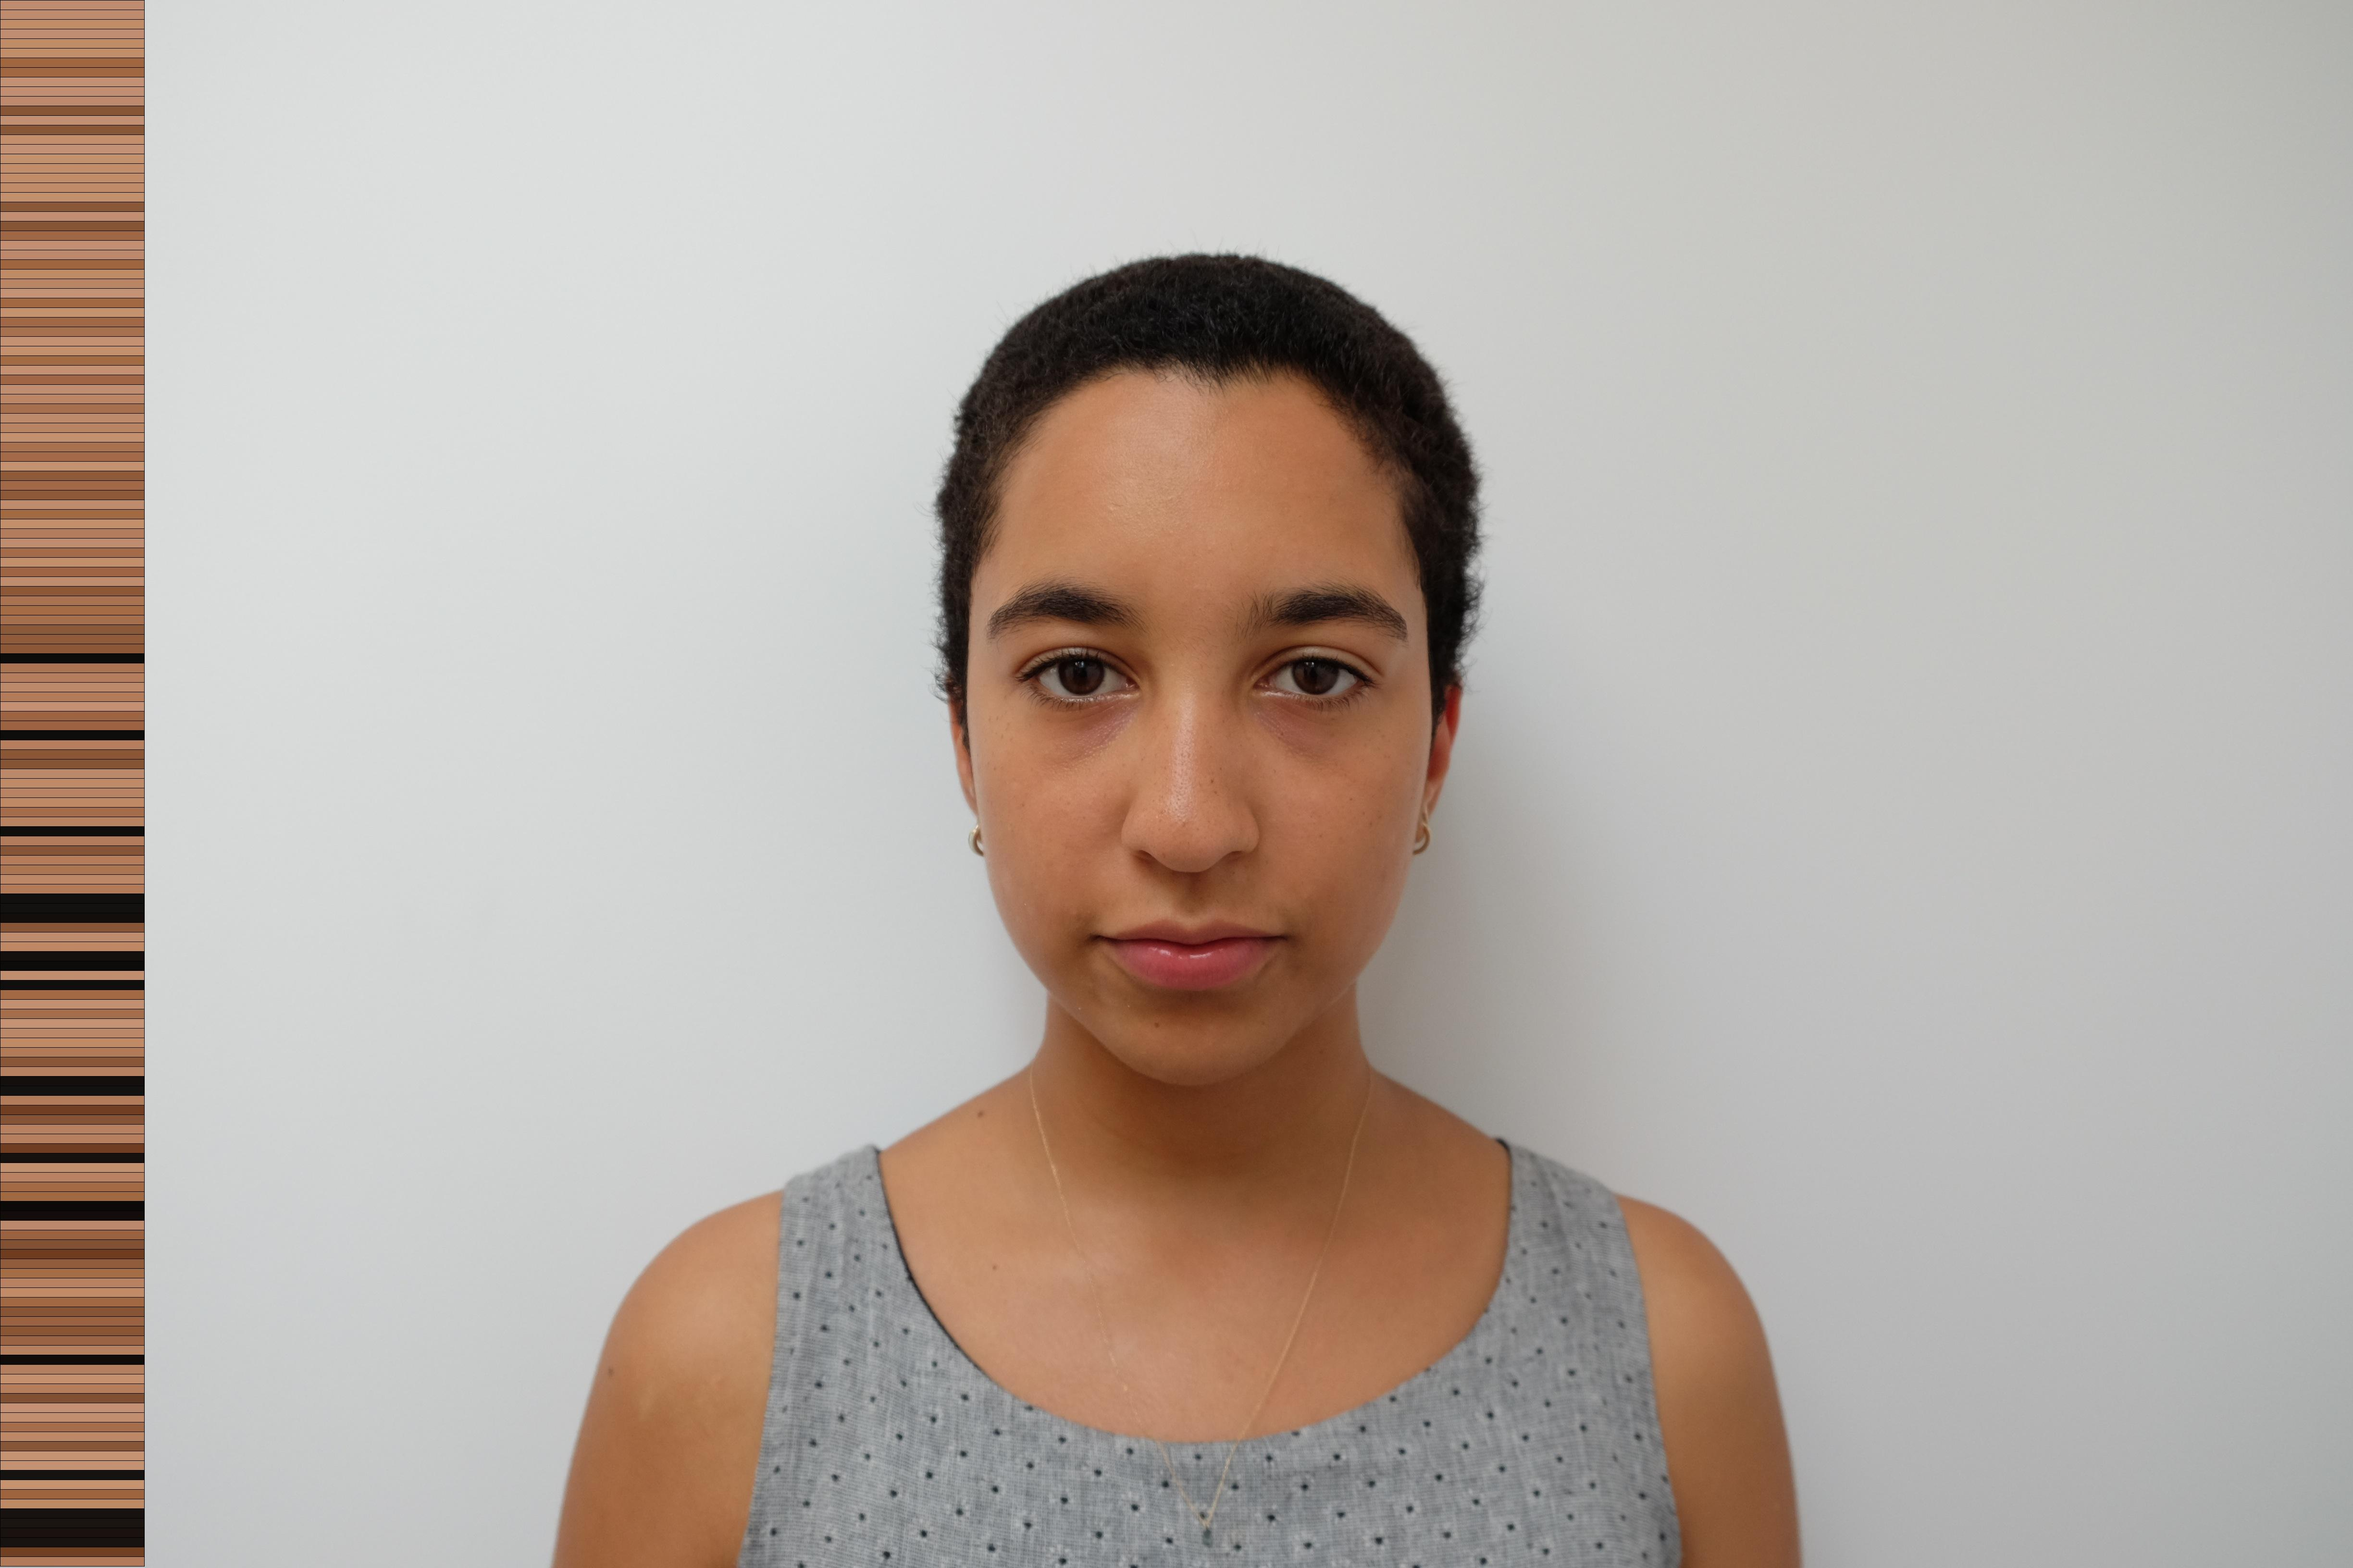
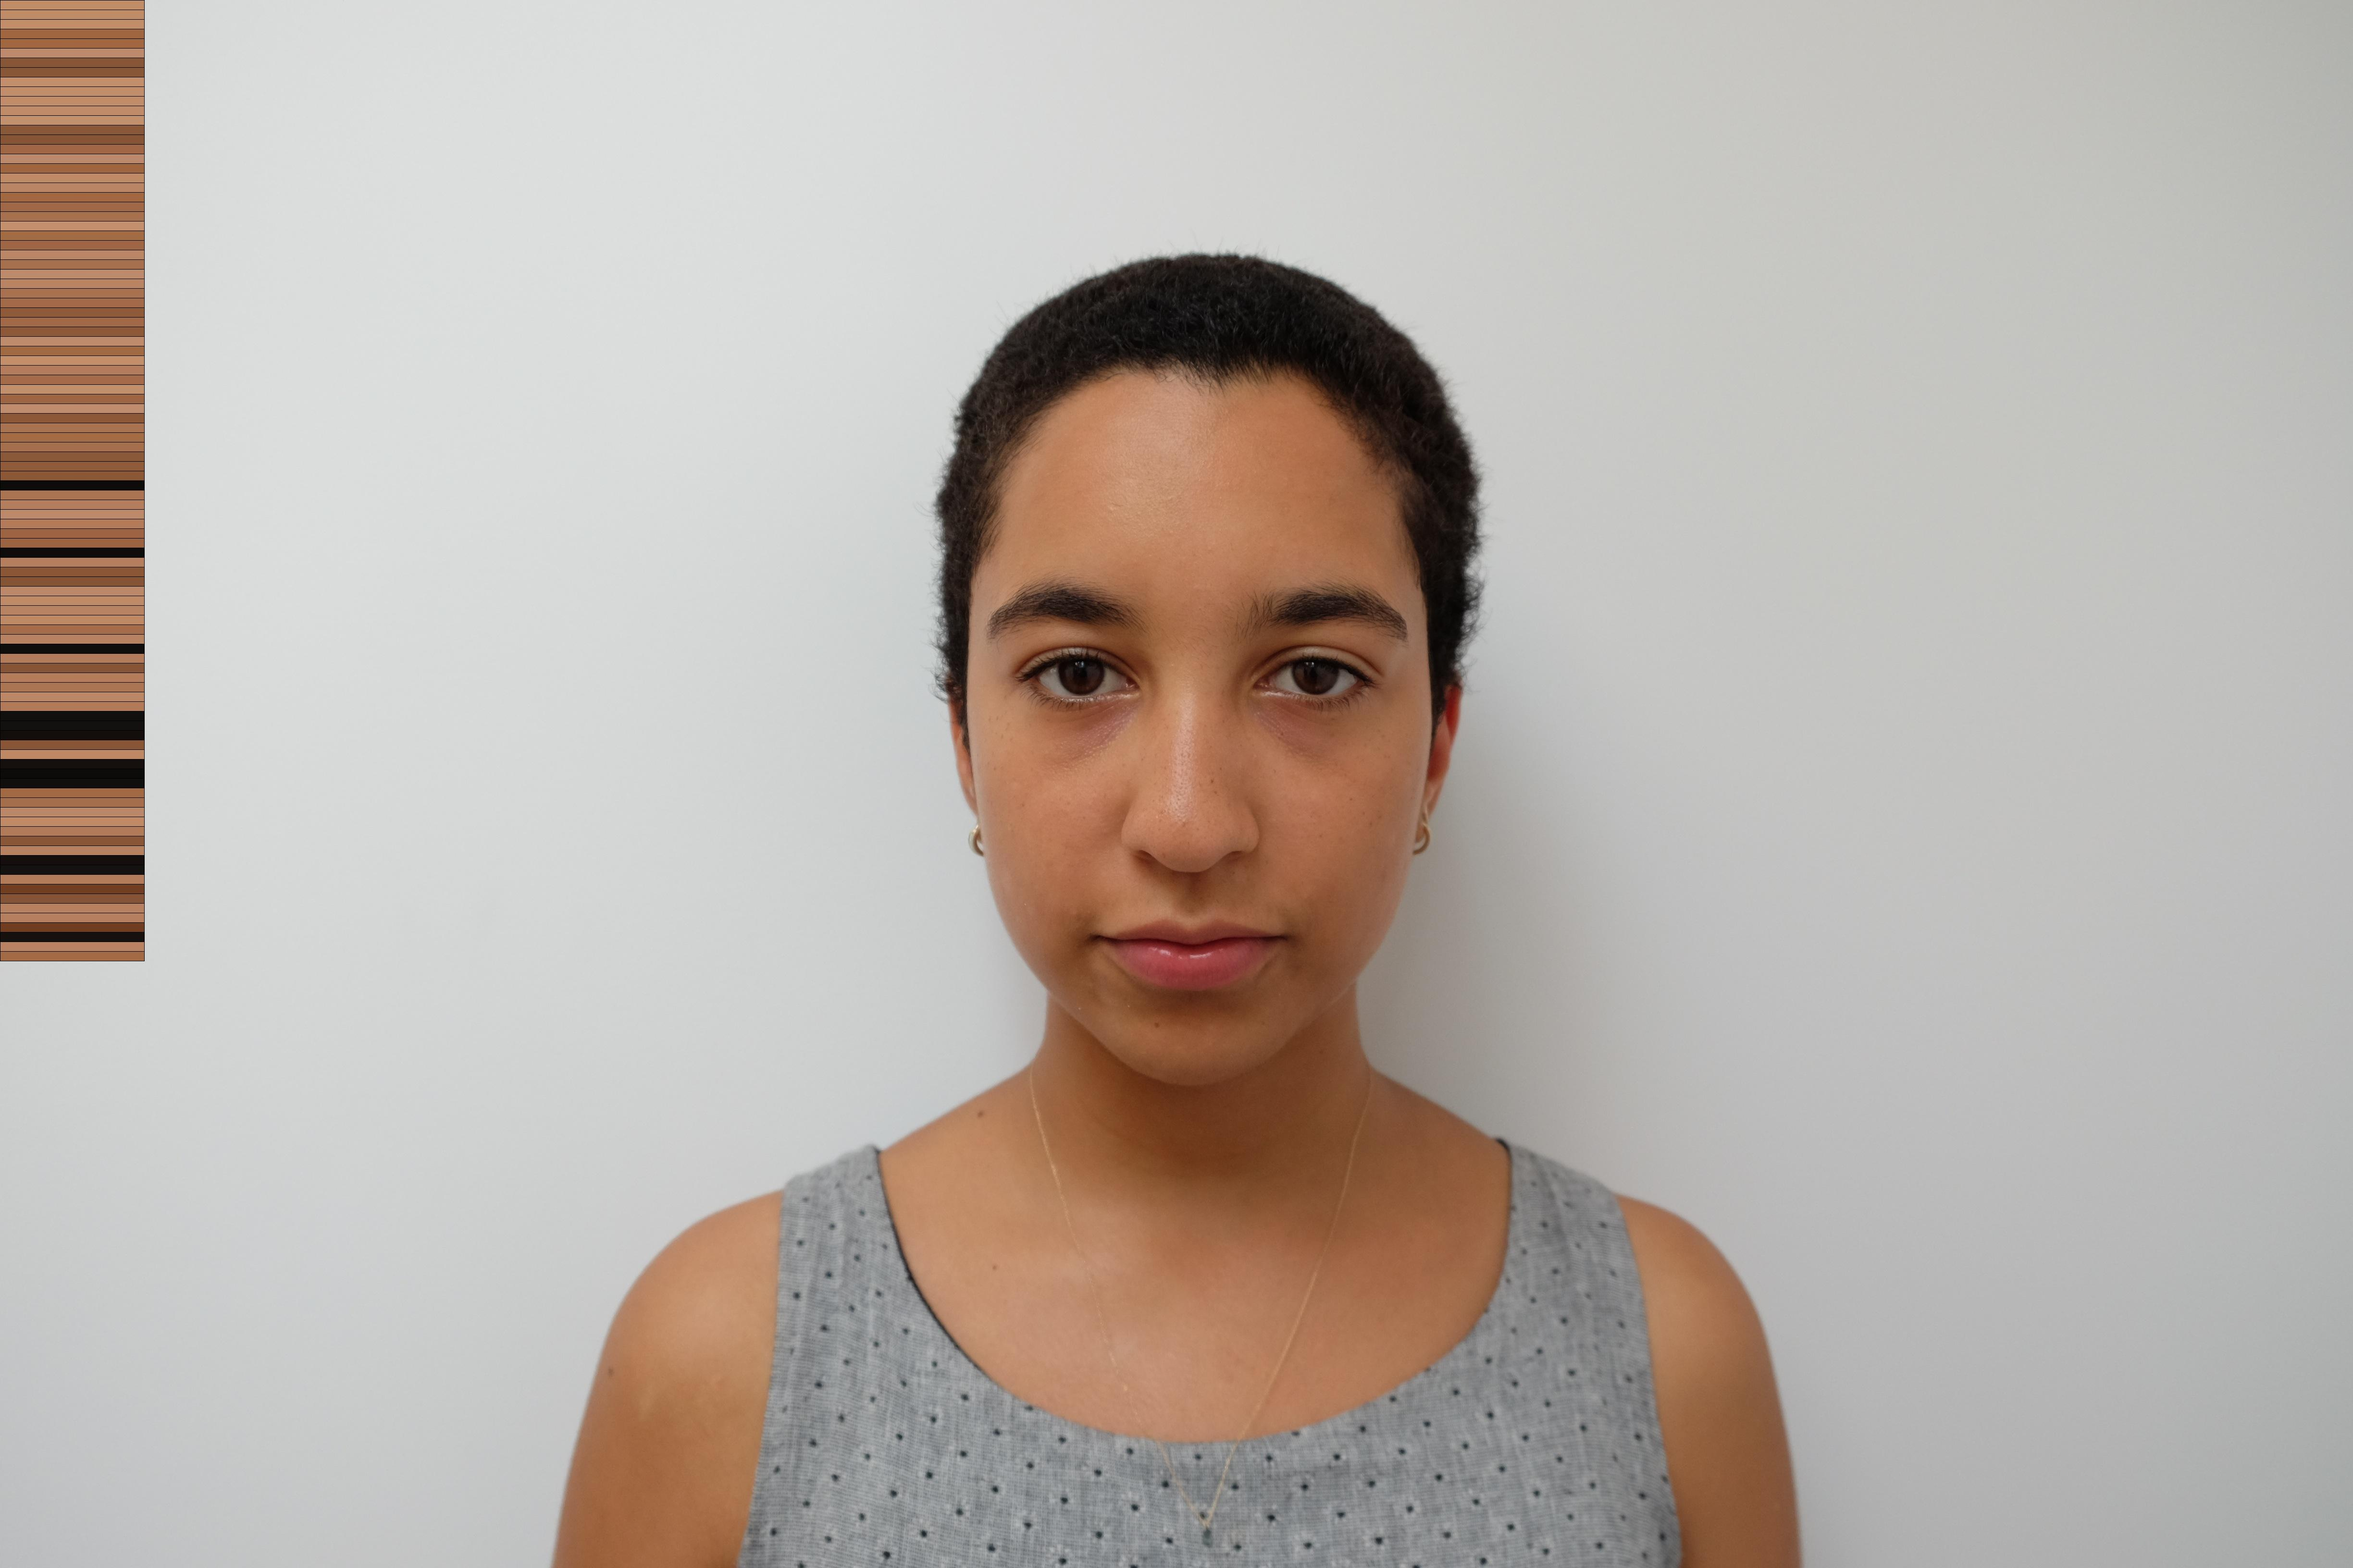
Class update

Changed region(s): [[0.0, 0.0, 0.0625, 1.0]]

diff --git a/skin_to_freq.py b/skin_to_freq.py
@@ -21,8 +21,7 @@ class TonePlayer(object):
 
     def pixel_to_freq(self, pixel):
         '''Given rgb values, convert those into a frequency on the audible spectrum'''
-        (r, g, b) = pixel[1]
-        return colorsys.rgb_to_hsv(r, g, b)
+        return colorsys.rgb_to_hsv(pixel[1][0], pixel[1][1], pixel[1][2])
 
 
     def freq_to_tone(self, freq, amplitude=1):
@@ -41,6 +40,12 @@ class TonePlayer(object):
         sin = (math.sin(frame / ((self.bitrate / freq) / math.pi)) * 127 + 128)
         return chr(int(amplitude * sin))
 
+    def test_scale(self):
+        '''play a scale to test pyaudio'''
+        scale = [130.8, 146.8, 164.8, 174.6, 195.0, 220.0, 246.9, 261.6]
+        for freq in scale:
+            self.freq_to_tone(freq)
+
     def play(self):
         '''Play a tone given a stream of data'''
         self.stream = self.pa.open(
@@ -52,94 +57,92 @@ class TonePlayer(object):
         self.stream.stop_stream()
         self.stream.close()
 
-def swap(tuple_array, i, j):
-    tuple_array[i], tuple_array[j] = tuple_array[j], tuple_array[i]
+class Portrait(object):
+    '''Class for converting images into usable tuple arrays of (count, color)'''
 
-def heapify(tuple_array, end, i):
-    l = 2 * i + 1
-    r = 2 * (i + 1)
-    max_num = i
-    if l < end and tuple_array[i] < tuple_array[l]:
-        max_num = l
-    if r < end and tuple_array[max_num] < tuple_array[r]:
-        max_num = r
-    if max_num != i:
-        swap(tuple_array, i, max_num)
-        heapify(tuple_array, end, max_num)
+    def __init__(self, file_path, save_path, array_length=50, thresh=110, col_size=20):
+        self.path_to_file = file_path
+        self.save_to_file = save_path
+        self.threshold = thresh
+        self.img = Image.open(self.path_to_file)
+        self.height, self.width = self.img.size
+        self.tuple_array = self.img.getcolors(self.height * self.width)
+        self.color_size = col_size
+        self.length = array_length
 
-def keyvalue_heap_sort(tuple_array):
-    last = len(tuple_array)
-    first = last // 2 - 1
-    for i in range(first, -1, -1):
-        heapify(tuple_array, last, i)
-    for i in range(last-1, 0, -1):
-        swap(tuple_array, i, 0)
-        heapify(tuple_array, i, 0)
+    def analyze(self, resz=False, save=False):
+        '''Sorts pixels and return a list of the most common non-white pixels'''
+        self.heap_sort()
+        self.remove_white()
+        if resz:
+            self.resize()
+        if save:
+            self.draw_and_save()
 
-def remove_white(array, threshold=110):
-    '''removes any pixel with a color that is similair to the most common color'''
-    top_pixel = array[-1]
-    top_color = top_pixel[1]
-    #top_color = (190, 140, 110)
-    new_array = [(0, 0)]
-    for (cnt, clr) in array:
-        add_item = False
-        for i in xrange(3):
-            add_item = add_item or (abs(top_color[i] - clr[i]) > threshold)
-        if add_item:
-            new_array.append((cnt, clr))
-    return new_array
+    def remove_white(self):
+        '''removes any pixel with a color that is similair to the most common color'''
+        top_pixel = self.tuple_array[-1]
+        top_color = top_pixel[1]
+        # jazz_color = (190, 140, 110)
+        new_array = [(0, 0)]
+        for (cnt, clr) in self.tuple_array:
+            add_item = False
+            for i in xrange(3):
+                add_item = add_item or (abs(top_color[i] - clr[i]) > self.threshold)
+            if add_item:
+                new_array.append((cnt, clr))
+        self.tuple_array = new_array
 
-def find_common_colors(img):
-    '''Given the file name of an image, open it, sort its pixels
-    and return a list of the most common non-white pixels'''
-    width, height = img.size
-    pxls = img.getcolors(width * height)
+    def draw_and_save(self):
+        '''(Meant for testing) Draws the most commonly found colors in an image onto an image'''
+        draw = ImageDraw.Draw(self.img)
+        length = self.height/self.color_size
+        if  len(self.tuple_array) < length:
+            length = len(self.tuple_array)
+        for item in xrange(length):
+            count_color = self.tuple_array[item]
+            x_y = [0, item * self.color_size, 300, item * self.color_size + self.color_size]
+            draw.rectangle(x_y, count_color[1], (0, 0, 0))
+        del draw
+        self.img.save(self.save_to_file)
 
-    most_common_pixels = []
+    def resize(self):
+        '''Resize our tuple array'''
+        self.tuple_array = [self.tuple_array[-x-1] for x in xrange(self.length)]
 
-    keyvalue_heap_sort(pxls)
-    pixels = remove_white(pxls)
+    def swap(self, i, j):
+        self.tuple_array[i], self.tuple_array[j] = self.tuple_array[j], self.tuple_array[i]
 
-    for pix in xrange(len(pixels)/2):
-        col_count = pixels[-pix-1]
-        col = col_count[1]
-        most_common_pixels.append(pixels[-pix-1])
+    def heapify(self, end, i):
+        l = 2 * i + 1
+        r = 2 * (i + 1)
+        max_num = i
+        if l < end and self.tuple_array[i] < self.tuple_array[l]:
+            max_num = l
+        if r < end and self.tuple_array[max_num] < self.tuple_array[r]:
+            max_num = r
+        if max_num != i:
+            self.swap(i, max_num)
+            self.heapify(end, max_num)
 
-    return most_common_pixels
+    def heap_sort(self):
+        last = len(self.tuple_array)
+        first = last // 2 - 1
+        for i in range(first, -1, -1):
+            self.heapify(last, i)
+        for i in range(last-1, 0, -1):
+            self.swap(i, 0)
+            self.heapify(i, 0)
 
-def test_pixel_count():
-    '''Test function to make sure pixel counting works'''
-    im = Image.open("TestFiles/test_jasmine.jpg")
-    awesomelist = find_common_colors(im)
-    draw = ImageDraw.Draw(im)
-    tp = TonePlayer()
-    color_size = 20
+def test(filepath, savepath):
+    '''Function to test that the pyaudio and color analysis sides work as they should'''
+    tone = TonePlayer()
 
-    print len(awesomelist)
+    port = Portrait(filepath, savepath)
+    port.analyze(True, True)
 
-    for item in xrange(im.height/color_size):
-        if item < len(awesomelist):
-            color_count = awesomelist[item]
-            x_y = [0, item * color_size, 300, item * color_size + color_size]
-            draw.rectangle(x_y, color_count[1], (0, 0, 0))
-            print color_count[1], tp.pixel_to_freq(color_count) # print hsv value
-    del draw
+    for cnt_col in port.tuple_array:
+        print cnt_col, tone.pixel_to_freq(cnt_col)
 
-    im.save("TestFiles/test_no_bkgn_result2.jpg")
 
-test_pixel_count()
-
-def test_audio():
-    '''Function to test that the pyaudio side works as it should'''
-    #scale = [130.8, 146.8, 164.8, 174.6, 195.0, 220.0, 246.9, 261.6]
-    scale2 = [400, 800, 500, 900, 700, 800]
-
-    tp = TonePlayer()
-
-    for freq in scale2:
-        tp.freq_to_tone(freq)
-
-    tp.play()
-
-    tp.pa.terminate()
+test("TestFiles/test_obama.jpg", "TestFiles/test_obama_result.jpg")
